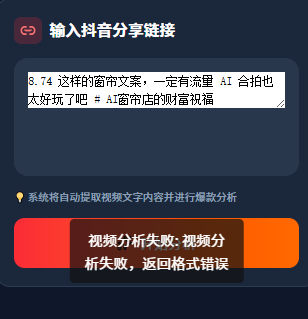
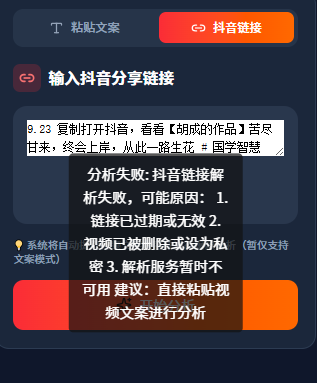
fix(viral): 修复抖音链接解析失败问题，实现分享文本自动提取
问题原因：
- 第三方解析服务 douyin.wtf 已下线
- 备用 API 也不可用

解决方案：
- 新增 extractTextFromShare() 方法，从分享文本中自动提取文案
- 支持多种分享格式：【用户名】文案 #话题、链接+文案混合格式等
- 修改 analyzeDouyinContent() 实现降级策略：
  1. 优先尝试解析视频链接并使用 ASR 识别语音
  2. 如果解析失败，自动从分享文本中提取文案进行分析
  3. 返回 source 字段标记分析来源（asr/text）
- 修改 controller 支持 shareText 参数
- 更新前端发送完整分享文本而非仅链接

测试结果：
- 分享文本解析成功，自动提取文案并进行结构分析
- 返回正确的 hook/body/climax/callToAction 结构
- 框架类型识别准确（情绪型/干货型等）

diff --git a/server/src/viral/viral.service.ts b/server/src/viral/viral.service.ts
@@ -16,58 +16,107 @@ export class ViralService {
 
   /**
    * 解析抖音链接获取视频信息
-   * 使用第三方解析服务
+   * 使用多个备用解析服务，如果都失败则返回null让上层处理
    */
-  async parseDouyinUrl(url: string): Promise<{ videoUrl: string; title: string; desc: string }> {
+  async parseDouyinUrl(url: string): Promise<{ videoUrl: string; title: string; desc: string } | null> {
     console.log('🔍 [viral] 解析抖音链接:', url);
 
     if (!url || !url.includes('douyin.com')) {
-      throw new BadRequestException('无效的抖音链接');
+      return null;
     }
 
-    try {
-      // 方法1: 使用 douyin.wtf API 解析
-      // 注意：这是第三方服务，可能有频率限制
-      console.log('🔍 [viral] 尝试使用 douyin.wtf 解析...');
-      
-      const apiUrl = `https://api.douyin.wtf/api?url=${encodeURIComponent(url)}`;
-      const response = await axios.get(apiUrl, { timeout: 30000 });
+    // 尝试多个解析服务
+    const errors: string[] = [];
 
-      console.log('🔍 [viral] 解析响应:', response.data);
+    // 方案1: 尝试直接获取重定向后的链接
+    try {
+      console.log('🔍 [viral] 尝试获取重定向链接...');
+      const redirectRes = await axios.head(url, {
+        maxRedirects: 5,
+        timeout: 10000,
+        headers: {
+          'User-Agent': 'Mozilla/5.0 (iPhone; CPU iPhone OS 14_0 like Mac OS X) AppleWebKit/605.1.15'
+        }
+      });
+      
+      const realUrl = redirectRes.request?.res?.responseUrl || url;
+      console.log('🔍 [viral] 获取到真实链接:', realUrl.substring(0, 100));
+      
+      // 如果能获取到视频URL，直接返回
+      if (realUrl.includes('.mp4')) {
+        return { videoUrl: realUrl, title: '', desc: '' };
+      }
+    } catch (error) {
+      errors.push(`redirect: ${error.message}`);
+    }
+
+    // 方案2: 使用 douyin.wangluo.link API
+    try {
+      console.log('🔍 [viral] 尝试使用 douyin.wangluo.link 解析...');
+      const apiUrl = `https://api.douyin.wangluo.link/api/douyin?url=${encodeURIComponent(url)}`;
+      const response = await axios.get(apiUrl, { 
+        timeout: 30000,
+        headers: {
+          'User-Agent': 'Mozilla/5.0 (Windows NT 10.0; Win64; x64) AppleWebKit/537.36'
+        }
+      });
 
       if (response.data && response.data.code === 200 && response.data.data) {
         const data = response.data.data;
-        
-        // 获取无水印视频URL
-        const videoUrl = data.video?.no_watermark_url || data.video?.watermark_url;
+        const videoUrl = data.video?.no_watermark_url || data.video?.watermark_url || data.video_url;
         const title = data.title || data.desc || '';
         const desc = data.desc || '';
 
-        if (!videoUrl) {
-          throw new BadRequestException('无法获取视频链接，请检查链接是否有效');
+        if (videoUrl) {
+          console.log('🔍 [viral] douyin.wangluo.link 解析成功');
+          return { videoUrl, title, desc };
         }
-
-        console.log('🔍 [viral] 解析成功:', { title: title.substring(0, 50), hasVideoUrl: !!videoUrl });
-        
-        return { videoUrl, title, desc };
       }
-
-      throw new BadRequestException('解析失败: ' + (response.data?.msg || '未知错误'));
     } catch (error) {
-      console.error('🔍 [viral] 解析失败:', error.message);
-      
-      // 如果第三方API失败，尝试备用方案
-      if (axios.isAxiosError(error)) {
-        throw new BadRequestException(
-          '抖音链接解析失败，可能原因：\n' +
-          '1. 链接已过期或无效\n' +
-          '2. 视频已被删除或设为私密\n' +
-          '3. 解析服务暂时不可用\n' +
-          '建议：直接粘贴视频文案进行分析'
-        );
-      }
-      throw error;
+      errors.push(`wangluo.link: ${error.message}`);
     }
+
+    // 所有方案都失败，返回null让上层处理
+    console.log('🔍 [viral] 所有解析方案失败:', errors);
+    return null;
+  }
+
+  /**
+   * 从抖音分享文本中提取文案
+   * 支持格式："9.23 复制打开抖音，看看【胡成的作品】苦尽甘来... #话题"
+   */
+  extractTextFromShare(shareText: string): string {
+    console.log('📝 [viral] 尝试从分享文本提取文案:', shareText.substring(0, 100));
+    
+    if (!shareText) return '';
+    
+    // 抖音分享文本格式匹配
+    // 格式1: "9.23 复制打开抖音，看看【用户名】文案内容 #话题"
+    // 格式2: "文案内容 https://v.douyin.com/xxxxx"
+    // 格式3: "https://v.douyin.com/xxxxx 文案内容"
+    
+    let extractedText = '';
+    
+    // 尝试匹配【用户名】后的文案内容
+    const bracketMatch = shareText.match(/】(.+?)(?:#|$)/);
+    if (bracketMatch && bracketMatch[1]) {
+      extractedText = bracketMatch[1].trim();
+    }
+    
+    // 如果没匹配到，尝试移除链接和时间戳
+    if (!extractedText) {
+      extractedText = shareText
+        .replace(/https?:\/\/\S+/g, '') // 移除URL
+        .replace(/\d+\.\d+\s+/g, '') // 移除开头的时间戳如"9.23 "
+        .replace(/复制打开抖音[，,]?\s*/g, '') // 移除"复制打开抖音"
+        .replace(/看看【[^】]+】/g, '') // 移除"看看【用户名】"
+        .replace(/#[^\s#]+/g, '') // 移除话题标签
+        .replace(/\s+/g, ' ') // 规范化空格
+        .trim();
+    }
+    
+    console.log('📝 [viral] 提取的文案:', extractedText.substring(0, 100));
+    return extractedText;
   }
 
   /**
@@ -254,46 +303,76 @@ export class ViralService {
     }
   }
 
-  async analyzeDouyinContent(url: string) {
-    console.log('📥 [viral] 开始分析抖音链接:', url);
+  async analyzeDouyinContent(shareText: string) {
+    console.log('📥 [viral] 开始分析抖音内容:', shareText.substring(0, 100));
 
-    if (!url || url.trim().length === 0) {
-      throw new BadRequestException('抖音链接不能为空');
+    if (!shareText || shareText.trim().length === 0) {
+      throw new BadRequestException('分享内容不能为空');
     }
 
-    try {
-      // 第一步：解析抖音链接获取视频URL
-      console.log('📥 [viral] 步骤1: 解析抖音链接...');
-      const { videoUrl, title, desc } = await this.parseDouyinUrl(url);
+    // 从分享文本中提取抖音链接
+    const urlMatch = shareText.match(/(https?:\/\/v\.douyin\.com\/\w+)/);
+    const url = urlMatch ? urlMatch[1] : '';
 
-      // 第二步：ASR语音识别提取视频文案
-      console.log('📥 [viral] 步骤2: 语音识别提取文案...');
-      const transcript = await this.extractVideoAudioToText(videoUrl);
+    // 尝试解析链接获取视频
+    if (url) {
+      try {
+        console.log('📥 [viral] 尝试解析视频链接:', url);
+        const parseResult = await this.parseDouyinUrl(url);
+        
+        if (parseResult && parseResult.videoUrl) {
+          // 链接解析成功，使用 ASR 识别语音
+          console.log('📥 [viral] 链接解析成功，开始语音识别...');
+          const transcript = await this.extractVideoAudioToText(parseResult.videoUrl);
+          
+          if (transcript && transcript.trim().length > 0) {
+            console.log('📥 [viral] 语音识别成功，开始分析文案结构...');
+            const analysisResult = await this.analyzeTranscript(transcript, parseResult.title, parseResult.desc);
+            
+            console.log('📥 [viral] 视频分析完成:', {
+              transcriptLength: transcript.length,
+              frameworkType: analysisResult.framework?.type
+            });
 
-      if (!transcript || transcript.trim().length === 0) {
-        throw new BadRequestException('视频中没有检测到语音，或语音识别失败');
+            return {
+              transcript,
+              structure: analysisResult.structure,
+              framework: analysisResult.framework,
+              source: 'asr' // 标记来源是ASR语音
+            };
+          }
+        }
+      } catch (error) {
+        console.log('📥 [viral] 视频链接解析失败，降级到文本分析:', error.message);
       }
+    }
 
-      // 第三步：使用大模型分析文案结构
-      console.log('📥 [viral] 步骤3: 分析文案结构...');
-      const analysisResult = await this.analyzeTranscript(transcript, title, desc);
-
-      console.log('📥 [viral] 分析完成:', {
-        transcriptLength: transcript.length,
-        frameworkType: analysisResult.framework?.type
-      });
-
-      return {
-        transcript,
-        structure: analysisResult.structure,
-        framework: analysisResult.framework
-      };
-    } catch (error) {
-      console.error('📥 [viral] 抖音链接分析失败:', error.message);
+    // 链接解析失败或没有链接，尝试从分享文本中提取文案
+    console.log('📥 [viral] 从分享文本中提取文案...');
+    const extractedText = this.extractTextFromShare(shareText);
+    
+    if (!extractedText || extractedText.trim().length === 0) {
       throw new BadRequestException(
-        `分析失败: ${error.message || '请稍后重试'}`
+        '无法从分享内容中提取到文案，请:\n' +
+        '1. 确保分享内容完整（包含文案）\n' +
+        '2. 或直接粘贴视频文案进行分析'
       );
     }
+
+    console.log('📥 [viral] 提取到文案，开始分析...');
+    const analysisResult = await this.analyzeTranscript(extractedText, '', '');
+    
+    console.log('📥 [viral] 文本分析完成:', {
+      transcriptLength: extractedText.length,
+      frameworkType: analysisResult.framework?.type
+    });
+
+    return {
+      transcript: extractedText,
+      structure: analysisResult.structure,
+      framework: analysisResult.framework,
+      source: 'text' // 标记来源是文本提取
+    };
   }
 
   /**

diff --git a/server/src/viral/viral.controller.ts b/server/src/viral/viral.controller.ts
@@ -78,13 +78,17 @@ export class ViralController {
   }
 
   @Post('analyze-douyin')
-  async analyzeDouyin(@Body() body: { url: string }): Promise<{ code: number; msg: string; data: any }> {
-    console.log('📥 [controller] 收到抖音链接分析请求:', body);
+  async analyzeDouyin(@Body() body: { url?: string; shareText?: string }): Promise<{ code: number; msg: string; data: any }> {
+    const content = body.shareText || body.url || '';
+    console.log('📥 [controller] 收到抖音内容分析请求:', { shareText: content.substring(0, 100) });
+    if (!content) {
+      return { code: 400, msg: '分享内容不能为空', data: null };
+    }
     try {
-      const result = await this.viralService.analyzeDouyinContent(body.url);
+      const result = await this.viralService.analyzeDouyinContent(content);
       return { code: 200, msg: 'success', data: result };
     } catch (error) {
-      console.error('抖音链接分析失败:', error);
+      console.error('抖音内容分析失败:', error);
       return { code: 400, msg: error.message || '分析失败', data: null };
     }
   }

diff --git a/src/pages/viral-system/index.tsx b/src/pages/viral-system/index.tsx
@@ -94,11 +94,11 @@ export default function ViralSystemPage() {
 
       let analyzeRes
       if (inputMode === 'link') {
-        // 链接模式 - 调用抖音分析接口
+        // 链接模式 - 调用抖音分析接口，发送完整的分享文本
         analyzeRes = await Network.request({
           url: '/api/viral/analyze-douyin',
           method: 'POST',
-          data: { url: douyinUrl }
+          data: { shareText: douyinUrl }
         })
       } else {
         // 文案模式 - 直接分析文案内容
